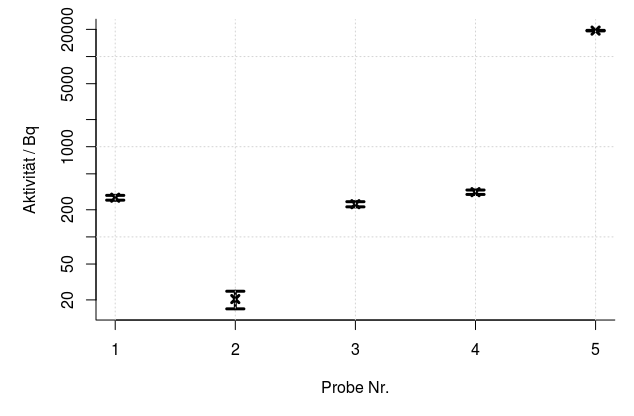
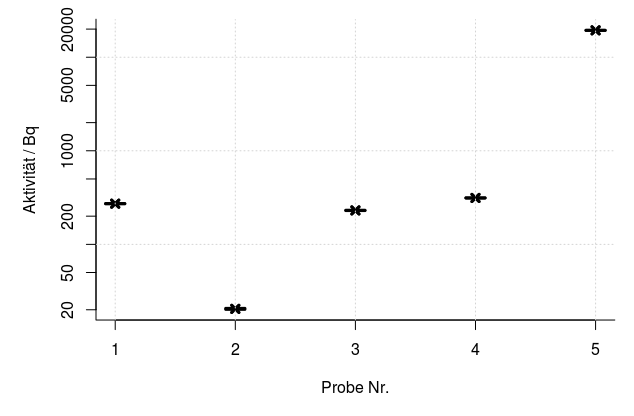
sdfhsdfh

diff --git a/szinti.tex b/szinti.tex
@@ -573,11 +573,16 @@ Wir haben verschiedene Natriumproben untersucht, welche im Praktikum verwendet w
 \gra[0.9]{natriumproben1}{Spektren der verschiedenen Natriumproben\label{natriumspektren}}
 \gra[0.6]{natriumproben2}{Aktivitäten der verschiedenen Natriumproben\label{natriumactivities}}
 
-In Abbildung \ref{natriumspektren} sind die Energiespektren der Proben aufgetragen. In Abbildung \ref{natriumactivities} sind die Gesamtaktivitäten der Proben zu sehen. Dabei fällt auf, dass die Aktivität der ältesten Probe nicht die geringste Aktivität hat, sondern eine deutlich höhere Aktivität als die nächstjüngere Probe. Dies lässt am angegeben Alter der Probe schließen, da uns keine genauen und verlässlichen Angaben zum Alter der Proben vorliegen. Es könnte allerdings auch an einer höheren Anfangsmasse der Proben im Vergleich zu den anderen Proben liegen. Andererseits stellt sich dann die Frage, warum die Probe dann durch eine deutlich schlechtere Probe ersetzt wurde.
+In Abbildung \ref{natriumspektren} sind die Energiespektren der Proben aufgetragen. Dabei sind als Fehlerbalken die aus den Poissonfehlern berechneten Fehler auf die Zählrate $s_n=\frac{\sqrt{N}}{t}$ eingezeichnet. In Abbildung \ref{natriumactivities} sind die Gesamtaktivitäten der Proben zu sehen. Dabei fällt auf, dass die Aktivität der ältesten Probe nicht die geringste Aktivität hat, sondern eine deutlich höhere Aktivität als die nächstjüngere Probe. Dies lässt am angegeben Alter der Probe schließen, da uns keine genauen und verlässlichen Angaben zum Alter der Proben vorliegen. Es könnte allerdings auch an einer höheren Anfangsmasse der Proben im Vergleich zu den anderen Proben liegen. Andererseits stellt sich dann die Frage, warum die Probe dann durch eine deutlich schlechtere Probe ersetzt wurde.
 
 \subsubsection{Untersuchung einer Natriumprobe zu verschiedenen Zeitpunkten}
-Anschließend wollten wir die Aktivität der Probe 4 aus Kapitel \ref{alter} in Abhängigkeit der Zeit bestimmen. Dazu benutzten wir 
+Anschließend wollen wir die Aktivität der Probe 4 aus Kapitel \ref{alter} in Abhängigkeit der Zeit bestimmen. Dazu benutzen wir die Daten anderer Gruppen aus früheren Semester. Wir verwenden einen Datensatz aus dem September 2014, drei Datensätze aus dem September/Oktober 2015 und unseren Datensatz (Oktober 2016). Da vor diesem Semester die Probe getauscht wurde, gehen wir davon aus, dass die Gruppen, dessen Datensätze wir benutzen, die Probe 4 verwendet haben. 
 
+\gra[1]{natriumzeit}{Zählraten der Natriumprobe nach Abzug des Untergrunds in verschiedenen Messungen\label{natriumzeit}}
+
+Von den Zählraten der einzelnen Messungen wird der jeweilige Untergrund abgezogen. Die Zählraten nach Abzug des Untergrunds werden in Abbildung \ref{natriumzeit} aufgetragen. In der Abbildung sieht man, dass für die Messzeitpunkte 2015-1 und 2015-3 die Kurvenverläufe negativ werden. Dies liegt daran, dass der gemessene Untergrund hier größer ist als die tatsächlichen Zählraten. Dies deutet auf einen Fehler bei der Durchführung der Messungen hin, weshalb wir diese Messdaten für die weitere Auswertung nicht verwenden können. Möglicherweise wurde der Untergrund hier ohne Bleiabschirmung oder mit einer anderen Position der Bleiabschirmung als bei der Natriummessung aufgenommen. Ebenso entsprechen die restlichen Verläufe nicht den Erwartungen, da die Aktivität innerhalb von zwei Jahren deutlich sinken und nicht ansteigen sollten. Die Gesamtaktivitäten sind in Abbildung \ref{gesamtactivity} zu sehen. Diese deutlichen Abweichungen von der Erwartung könnten an unterschiedlichen Messmethoden liegen. Möglicherweise haben die anderen Gruppen die Probe in einer anderen Position, z.B. weiter vom Szintillator entfernt, vermessen. Außerdem können wir uns nicht sicher sein, ob die anderen Gruppen tatsächlich die selbe Probe verwendet haben.
+
+\gra{natriumactivity}{Gesamtaktivitäten der Natriumproben nach Abzug des Untergrunds (unbrauchbare Messungen)\label{gesamtactivity}}
 \newpage
 \section{Zusammenfassung und Diskussion \label{Diskussion}}
 
@@ -673,9 +678,21 @@ Anschließend wollten wir die Aktivität der Probe 4 aus Kapitel \ref{alter} in 
 %\newpage
 \subsection{Quellcode}
 \label{sourcecode}
-%\lstinputlisting[language=MATLAB]{Rohdaten/alpha.m}
+\subsubsection{\code{auswertung.R}}\label{auswertungR}
+\lstinputlisting[language=R]{r-files/energieeichung.R}
+\subsubsection{\code{natrium.R}}\label{natriumR}
+\lstinputlisting[language=R]{r-files/natrium.R}
+\subsubsection{\code{winkel.R}}\label{winkelR}
+\lstinputlisting[language=R]{r-files/winkel.R}
+\subsubsection{\code{functions.R}}\label{functionsR}
+\lstinputlisting[language=R]{r-files/functions.R}
+\subsubsection{\code{linearfit.R}}\label{linearfitR}
+\lstinputlisting[language=R]{r-files/linearfit.R}
+\subsubsection{\code{gausfit.R}}\label{gausfitR}
+\lstinputlisting[language=R]{r-files/gausfit.R}
 
-%\newpage
+
+\newpage
 \subsection{Laborheft}\label{laborbuch}
 \begin{minipage}{\textwidth}
 	\centering
